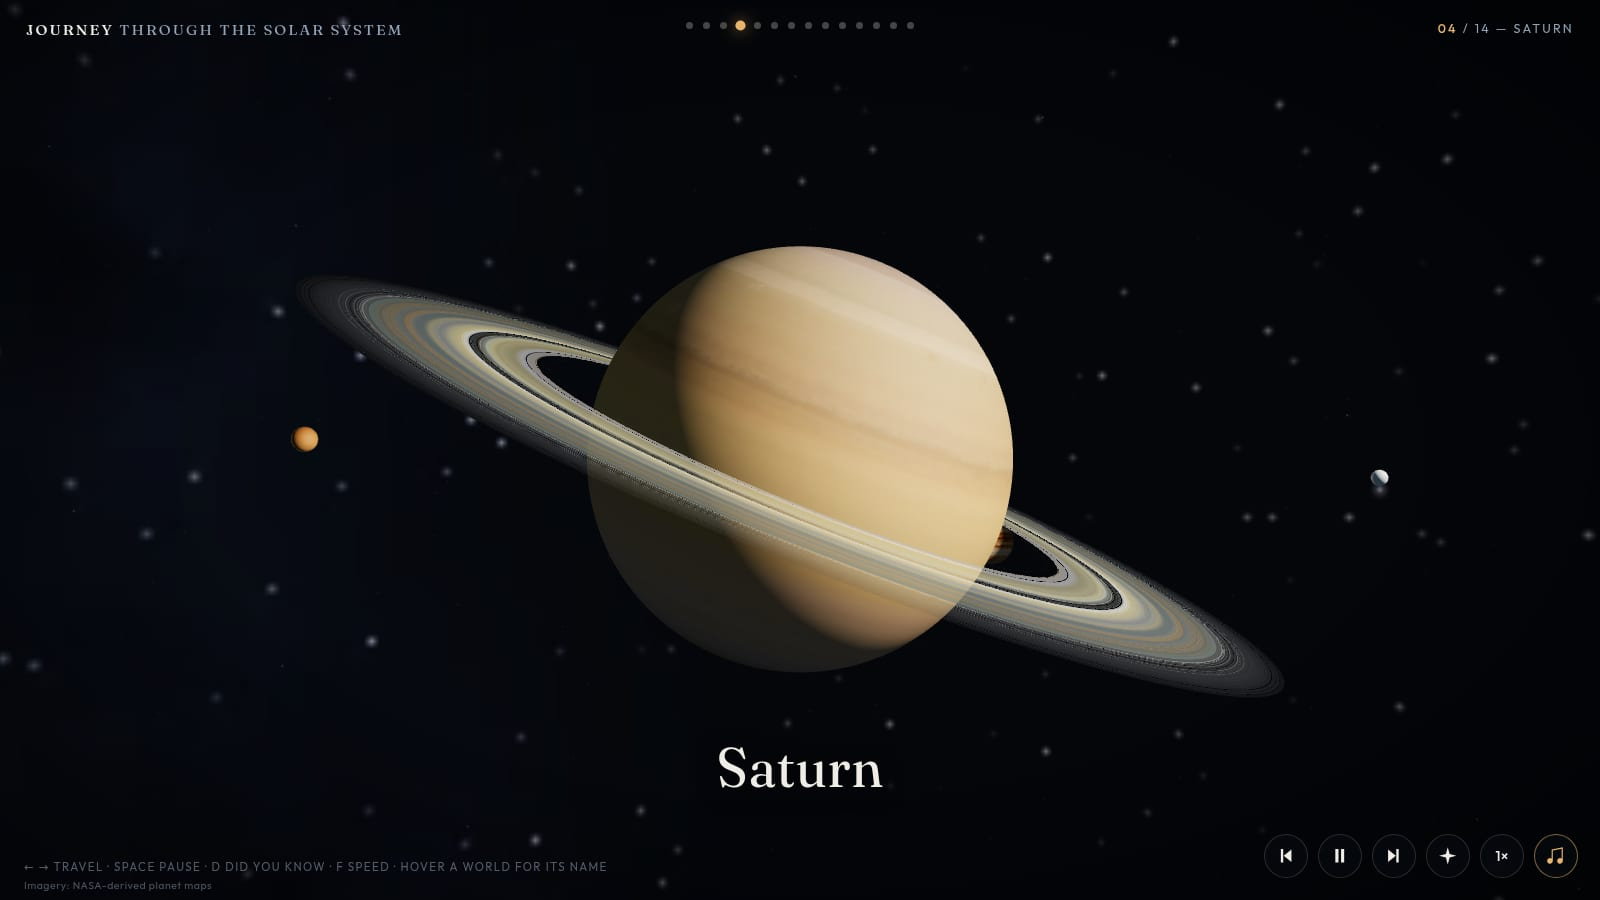
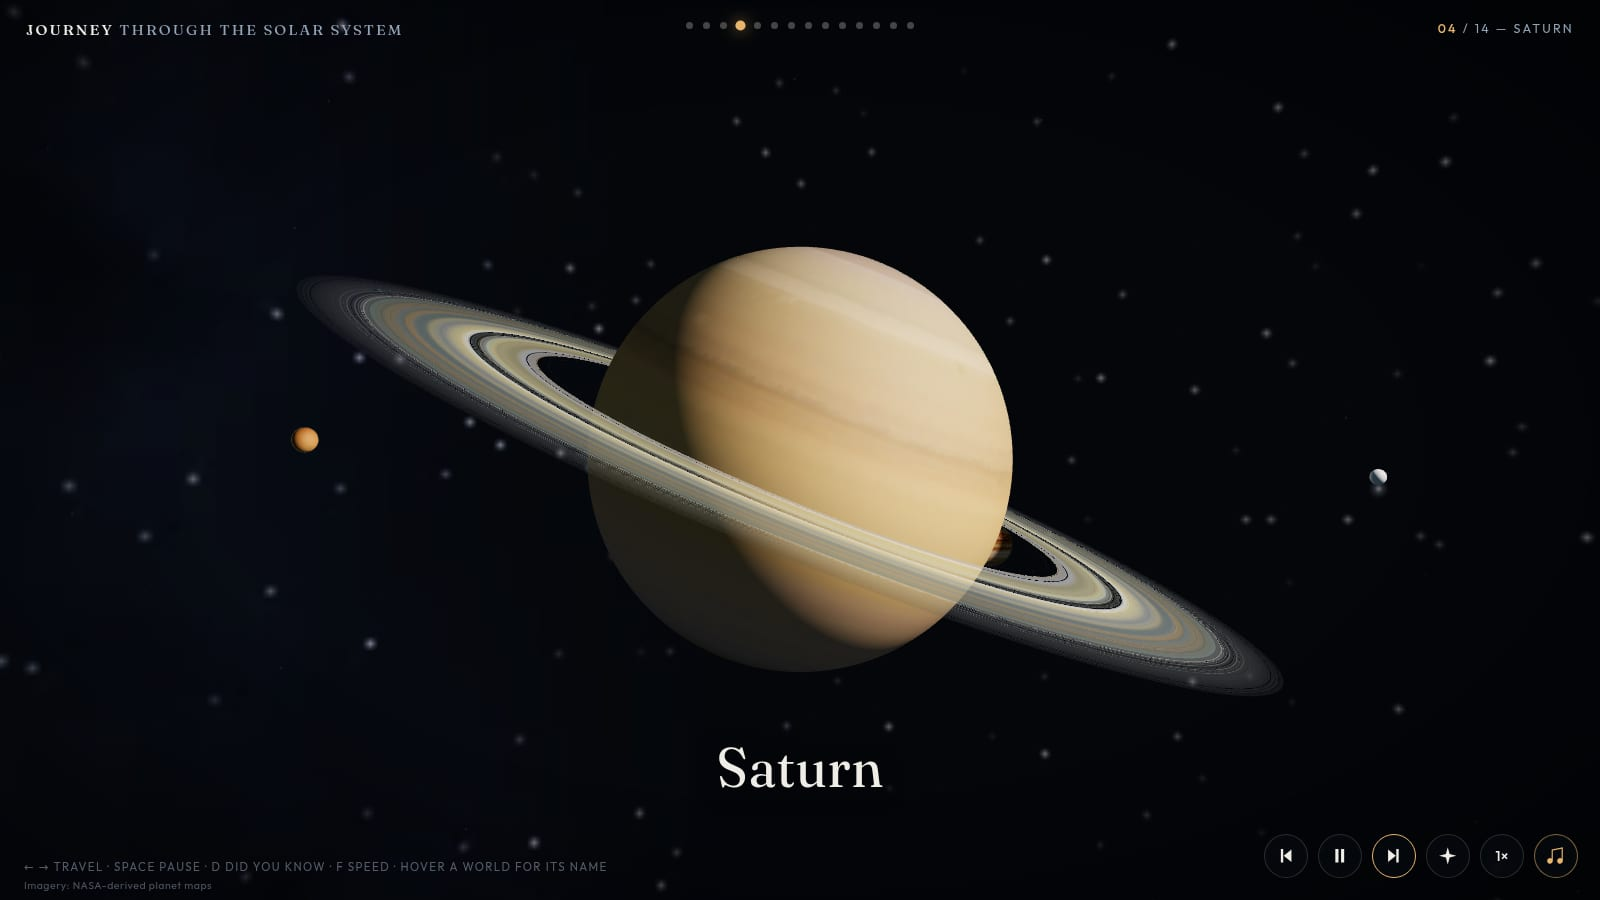
Polish: smaller stars, comet tracking shot, Earth limb fix, repainted Sun (#13)
* Polish pass: smaller stars, comet tracking shot, Earth limb, new Sun

- Stars reduced another notch across all tiers (dust .85, mid 1.45,
  bright 2.3, halo 4 at .12) so no background star competes with a
  foreground world
- The comet now enters from the right of the flight line and sweeps
  far left, and the Uranus-Saturn transit becomes a tracking shot:
  the camera leans right to find it, holds it through the pass, and
  rotates left with it before releasing to the arrival pursuit
  (cometGaze window over flight progress); that flight lengthens to
  9.6s and the comet gains presence (bigger head glow, longer tails)
- Earth's flickering limb: the atmosphere rim (32x24) and cloud
  sphere (48x32) had visibly polygonal silhouettes that shimmered
  against the 96x64 surface as the camera drifted - both overlays now
  match the surface tessellation (rim change also benefits Venus,
  Mercury haze and the Sun chromosphere)
- The Sun is repainted: the shader domain-warps the NASA map with
  animated noise, adds churning granulation cells, re-lights through
  an ember-orange-gold-white temperature ramp with limb darkening
  that reddens at the edge, and brightens faculae toward the limb;
  the false-color view becomes an SDO-style gold EUV ramp with limb
  brightening
- README hero screenshot recaptured (in-PR per convention)

* Keep the comet on the right for a calmer tracking shot

The right-to-far-left sweep swung the camera across the whole sky.
[…]

diff --git a/index.html b/index.html
@@ -905,8 +905,8 @@ function starPositions(N,seed){
     p.userData={baseOp:op,baseSize:size,fadeK:.62,tw:null};
     grp.add(p);
   }
-  tier(4200,0,1.1,.55,0xbfc8d4);                  /* dust — the faint field */
-  tier(1500,5,1.9,.8,0xdfe6ee);                   /* mid                    */
+  tier(4200,0,.85,.55,0xbfc8d4);                  /* dust — the faint field */
+  tier(1500,5,1.45,.8,0xdfe6ee);                  /* mid                    */
   /* bright tier: tinted, split in three phase groups for a quiet twinkle */
   const NB=220;
   const bp=starPositions(NB,20),bc=new Float32Array(NB*3);
@@ -923,14 +923,14 @@ function starPositions(N,seed){
     const g=new THREE.BufferGeometry();
     g.setAttribute('position',new THREE.Float32BufferAttribute(pp,3));
     g.setAttribute('color',new THREE.Float32BufferAttribute(cc,3));
-    const p=new THREE.Points(g,mat(3,1,{vertexColors:true}));
-    p.userData={baseOp:1,baseSize:3,fadeK:.62,tw:{a:.08,o:[.9,1.3,1.7][k],p:k*2.1}};
+    const p=new THREE.Points(g,mat(2.3,1,{vertexColors:true}));
+    p.userData={baseOp:1,baseSize:2.3,fadeK:.62,tw:{a:.08,o:[.9,1.3,1.7][k],p:k*2.1}};
     grp.add(p);
   }
   const hg=new THREE.BufferGeometry();
   hg.setAttribute('position',new THREE.Float32BufferAttribute(bp,3));
-  const halo=new THREE.Points(hg,mat(5.5,.14,{color:0xffffff}));
-  halo.userData={baseOp:.14,baseSize:5.5,fadeK:.62,tw:null};
+  const halo=new THREE.Points(hg,mat(4,.12,{color:0xffffff}));
+  halo.userData={baseOp:.12,baseSize:4,fadeK:.62,tw:null};
   grp.add(halo);
   /* far galaxies: faint island universes among the stars — kept away
      from the forward flight axis so the void stays a void */
@@ -989,7 +989,8 @@ function sphere(r,tex,opts){
   return new THREE.Mesh(new THREE.SphereGeometry(r,r>=1?96:64,r>=1?64:40),m);
 }
 function rim(r,color,opacity){
-  const m=new THREE.Mesh(new THREE.SphereGeometry(r*1.035,32,24),
+  /* high tessellation: a polygonal silhouette shimmers at the limb */
+  const m=new THREE.Mesh(new THREE.SphereGeometry(r*1.035,96,64),
     new THREE.MeshBasicMaterial({color:color,transparent:true,opacity:opacity,
       side:THREE.BackSide,blending:THREE.AdditiveBlending,depthWrite:false}));
   m.renderOrder=2;return m;
@@ -1111,8 +1112,11 @@ function makeEarthMaterial(sun){
 }
 /* --- Sun shader: scrolling plasma, limb darkening (or EUV limb brightening) --- */
 function makeSunMaterial(){
+  /* boiling photosphere: the NASA map is domain-warped by animated
+     noise and re-lit through a physical temperature ramp — granules
+     churn, faculae brighten toward the limb, the limb darkens red */
   return new THREE.ShaderMaterial({
-    uniforms:{map:{value:TEX.sun},uvOff:{value:0},fcMode:{value:0}},
+    uniforms:{map:{value:TEX.sun},uvOff:{value:0},fcMode:{value:0},uTime:{value:0}},
     vertexShader:[
       'varying vec2 vUv;varying vec3 vN;varying vec3 vWp;',
       'void main(){vUv=uv;vN=normalize(mat3(modelMatrix)*normal);',
@@ -1120,26 +1124,48 @@ function makeSunMaterial(){
       ' gl_Position=projectionMatrix*viewMatrix*wp;}'
     ].join('\n'),
     fragmentShader:[
-      'uniform sampler2D map;uniform float uvOff;uniform float fcMode;',
+      'uniform sampler2D map;uniform float uvOff;uniform float fcMode;uniform float uTime;',
       'varying vec2 vUv;varying vec3 vN;varying vec3 vWp;',
+      'float h21(vec2 p){p=fract(p*vec2(123.34,456.21));p+=dot(p,p+45.32);return fract(p.x*p.y);}',
+      'float vn(vec2 p){vec2 i=floor(p),f=fract(p);f=f*f*(3.0-2.0*f);',
+      ' return mix(mix(h21(i),h21(i+vec2(1,0)),f.x),mix(h21(i+vec2(0,1)),h21(i+vec2(1,1)),f.x),f.y);}',
+      'float fbm2(vec2 p){float a=.5,t=0.;for(int i=0;i<3;i++){t+=a*vn(p);p*=2.17;a*=.5;}return t;}',
       'void main(){',
       ' vec2 uv=vec2(vUv.x+uvOff,vUv.y);',
-      ' vec3 c=pow(texture2D(map,uv).rgb,vec3(2.2));',
-      ' vec3 c2=pow(texture2D(map,uv*1.7+vec2(0.31,0.13)).rgb,vec3(2.2));',
-      ' c*=0.78+0.5*dot(c2,vec3(0.333));',
-      ' float hot=pow(max(dot(c,vec3(0.333))-0.5,0.0)*2.0,1.4);',
-      ' c=mix(c,vec3(1.0,0.92,0.72),hot*0.45);',
-      ' vec3 c3=pow(texture2D(map,uv*0.33+vec2(0.71,0.42)).rgb,vec3(2.2));',
-      ' c*=0.86+0.34*dot(c3,vec3(0.333));',
+      ' float t=uTime;',
+      /* animated domain warp: convection slowly kneads the surface */
+      ' vec2 w=vec2(fbm2(uv*6.0+t*.05),fbm2(uv*6.0+vec2(13.7,7.1)-t*.045))-.5;',
+      ' vec2 uvA=uv+w*.02;',
+      ' float base=dot(pow(texture2D(map,uvA).rgb,vec3(2.2)),vec3(.333));',
+      ' float mid =dot(pow(texture2D(map,uvA*2.3+vec2(.31,.13)+w*.05).rgb,vec3(2.2)),vec3(.333));',
+      /* boiling granulation: fine cells that actually churn over time */
+      ' float gran=fbm2(uv*46.0+w*9.0+vec2(t*.16,-t*.11));',
+      ' gran=gran*gran*(3.0-2.0*gran);',
+      ' float L=base*(.55+.75*mid)*(.72+.56*gran);',
+      ' L=pow(L*2.1,1.25);',
       ' float mu=clamp(dot(normalize(vN),normalize(cameraPosition-vWp)),0.0,1.0);',
+      ' vec3 c;',
       ' if(fcMode<0.5){',
-      '  float limb=pow(mu,0.6);',
-      '  c*=(0.30+1.05*limb);',
-      '  c=mix(c*vec3(1.0,0.45,0.18),c,pow(mu,0.4));',
-      '  c*=1.5;',
+      /* temperature ramp: ember red -> orange -> yellow-white core */
+      '  vec3 ember=vec3(.42,.05,.002),orange=vec3(1.0,.30,.02),',
+      '       gold=vec3(1.0,.62,.13),white=vec3(1.05,.94,.72);',
+      '  c=mix(ember,orange,smoothstep(0.0,.45,L));',
+      '  c=mix(c,gold,smoothstep(.35,.85,L));',
+      '  c=mix(c,white,smoothstep(.8,1.6,L));',
+      /* faculae: bright flecks that show best toward the limb */
+      '  float fac=smoothstep(.72,.95,gran)*pow(1.0-mu,1.6);',
+      '  c+=vec3(1.0,.85,.55)*fac*.5;',
+      /* limb darkening, reddened at the very edge */
+      '  float limb=.24+1.06*pow(mu,.5);',
+      '  c*=limb;',
+      '  c=mix(vec3(c.r,c.g*.55,c.b*.2),c,smoothstep(0.0,.35,mu));',
+      '  c*=1.45;',
       ' }else{',
-      '  c*=(0.5+0.95*pow(1.0-mu,1.1));',
-      '  c*=1.7;',
+      /* false color: SDO-style gold EUV, limb-brightened */
+      '  float e=pow(L,1.1)*(.45+1.1*pow(1.0-mu,1.2));',
+      '  c=mix(vec3(.06,.025,.0),vec3(1.0,.72,.18),smoothstep(.05,.9,e));',
+      '  c+=vec3(1.0,.9,.6)*smoothstep(.75,1.3,e)*.6;',
+      '  c*=1.6;',
       ' }',
       ' gl_FragColor=vec4(pow(max(c,vec3(0.0)),vec3(1.0/2.2)),1.0);',
       '}'
@@ -1504,7 +1530,7 @@ const BUILDERS=[
     sunFill(g);
     const nf=new THREE.PointLight(0x36455c,.43,120,1);nf.position.set(-28,-8,-20);g.add(nf);
     g.add(name(spin(new THREE.Mesh(new THREE.SphereGeometry(1.5,96,64),makeEarthMaterial([7,3,4])),.02),'Earth',st));
-    const cl=spin(new THREE.Mesh(new THREE.SphereGeometry(1.518,48,32),
+    const cl=spin(new THREE.Mesh(new THREE.SphereGeometry(1.518,96,64),
       new THREE.MeshPhongMaterial({map:TEX.clouds,transparent:true,depthWrite:false,shininess:1,specular:0x000000})),.026);
     cl.renderOrder=1;g.add(cl);
     g.add(rim(1.5,0x6fa8e8,.1));
@@ -1603,6 +1629,7 @@ const BUILDERS=[
     }
     s.update=function(dt,el){
       s.body.material.uniforms.uvOff.value+=.0035*dt;
+      s.body.material.uniforms.uTime.value=el;
       for(let i=0;i<s.proms.length;i++){
         const pm=s.proms[i];
         pm.material.opacity=.5+.2*Math.sin(el*.5+i*2.1);
@@ -1890,7 +1917,7 @@ function transitTo(j){
     if(e>.82)pA[k]=pA[k]+(pit1-pA[k])*sm5((e-.82)/.18);
   }
   pA[SM]=pit1;
-  TR={to:j,t:0,dur:(j===5?7.4:(j===7?9.2:6.4)),
+  TR={to:j,t:0,dur:(j===3?9.6:j===5?7.4:(j===7?9.2:6.4)),
     yawA:yA,pitA:pA,tgt:entryL,
     path:tpath};
   audio.whoosh(TR.dur/SPD);
@@ -1903,9 +1930,9 @@ function transitTo(j){
 const COMET={g:null,on:false,p0:null,p1:null};
 function buildComet(){
   const g=new THREE.Group();
-  g.add(new THREE.Mesh(new THREE.SphereGeometry(.18,12,10),
+  g.add(new THREE.Mesh(new THREE.SphereGeometry(.22,12,10),
     new THREE.MeshBasicMaterial({color:0xdcecff})));
-  g.add(sprite(glowTexture('rgba(215,235,255,.95)','rgba(150,190,255,.35)'),3.2,0xcfe4ff));
+  g.add(sprite(glowTexture('rgba(215,235,255,.95)','rgba(150,190,255,.35)'),4.2,0xcfe4ff));
   function tail(n,len,spread,col,op,size){
     const a=new Float32Array(n*3);
     for(let i=0;i<n;i++){
@@ -1921,24 +1948,31 @@ function buildComet(){
       transparent:true,opacity:op,sizeAttenuation:true,
       blending:THREE.AdditiveBlending,depthWrite:false}));
   }
-  g.add(tail(110,13,1.4,0x9fc4ff,.8,.48));   /* ion tail — blue, long, narrow */
-  g.add(tail(140,7.5,2.2,0xf2e6d8,.6,.4));   /* dust tail — warm, short, wide */
+  g.add(tail(130,16,1.7,0x9fc4ff,.8,.55));   /* ion tail — blue, long, narrow */
+  g.add(tail(160,9,2.6,0xf2e6d8,.6,.46));    /* dust tail — warm, short, wide */
   g.visible=false;
   scene.add(g);
   COMET.g=g;
 }
 function cometArm(){
-  /* cross the camera's line of flight ~30 units ahead of mid-transit */
-  const c0=TR.path(.5).pos,c1=TR.path(.95).pos;
-  const dx=c1[0]-c0[0],dy=c1[1]-c0[1],dz=c1[2]-c0[2];
+  /* the overtaking crossing: the comet enters abeam of our right
+     shoulder moving faster than us, cuts across our path ahead, and
+     exits away to the left — the gaze sweeps right → forward → left
+     with it, then releases to the arrival pursuit */
+  const a=TR.path(.12).pos,b=TR.path(1).pos;
+  const dx=b[0]-a[0],dy=b[1]-a[1],dz=b[2]-a[2];
   const dl=Math.hypot(dx,dy,dz)||1;
   const d=[dx/dl,dy/dl,dz/dl];
   const r=[-d[2],0,d[0]];const rl=Math.hypot(r[0],r[2])||1;r[0]/=rl;r[2]/=rl;
-  /* biased to one side so it sweeps past the camera, never through it */
-  const bx=c0[0]+d[0]*30+r[0]*9,by=c0[1]+d[1]*30,bz=c0[2]+d[2]*30+r[2]*9;
-  COMET.p0=[bx-r[0]*20,by+9,bz-r[2]*20];
-  COMET.p1=[bx+r[0]*24,by-7,bz+r[2]*24];
+  COMET.p0=[a[0]+r[0]*15-d[0]*6,a[1]+4,a[2]+r[2]*15-d[2]*6];
+  COMET.p1=[b[0]-r[0]*40+d[0]*26,b[1]-4,b[2]-r[2]*40+d[2]*26];
   COMET.on=true;COMET.g.visible=true;
+}
+/* how strongly the transit camera gazes at the comet, by flight progress:
+   ease in after departure, hold through the pass, release for arrival */
+function cometGaze(e){
+  const ss=function(x){x=Math.max(0,Math.min(1,x));return x*x*(3-2*x);};
+  return .85*Math.min(ss((e-.08)/.22),1-ss((e-.62)/.2));
 }
 function cometUpdate(q){
   const px=COMET.p0[0]+(COMET.p1[0]-COMET.p0[0])*q,
@@ -2106,7 +2140,18 @@ function tick(now){
       ya=ya+(bb-ya)*bl;pa=pa+(vv-pa)*bl;
     }
     const cp=Math.cos(pa);
-    const lx=c.pos[0]+Math.sin(ya)*cp*60,ly=c.pos[1]+Math.sin(pa)*60,lz=c.pos[2]-Math.cos(ya)*cp*60;
+    let lx=c.pos[0]+Math.sin(ya)*cp*60,ly=c.pos[1]+Math.sin(pa)*60,lz=c.pos[2]-Math.cos(ya)*cp*60;
+    if(COMET.on){
+      /* the tracking shot: lean the gaze toward the passing comet */
+      const w=cometGaze(eu);
+      if(w>0){
+        const gx=COMET.g.position.x-c.pos[0],gy=COMET.g.position.y-c.pos[1],gz=COMET.g.position.z-c.pos[2];
+        const gl=Math.hypot(gx,gy,gz)||1;
+        lx+=((c.pos[0]+gx/gl*60)-lx)*w;
+        ly+=((c.pos[1]+gy/gl*60)-ly)*w;
+        lz+=((c.pos[2]+gz/gl*60)-lz)*w;
+      }
+    }
     camera.lookAt(lx,ly,lz);
     lastLook=[lx,ly,lz];
     if(TR.t>=TR.dur)finishTransit();